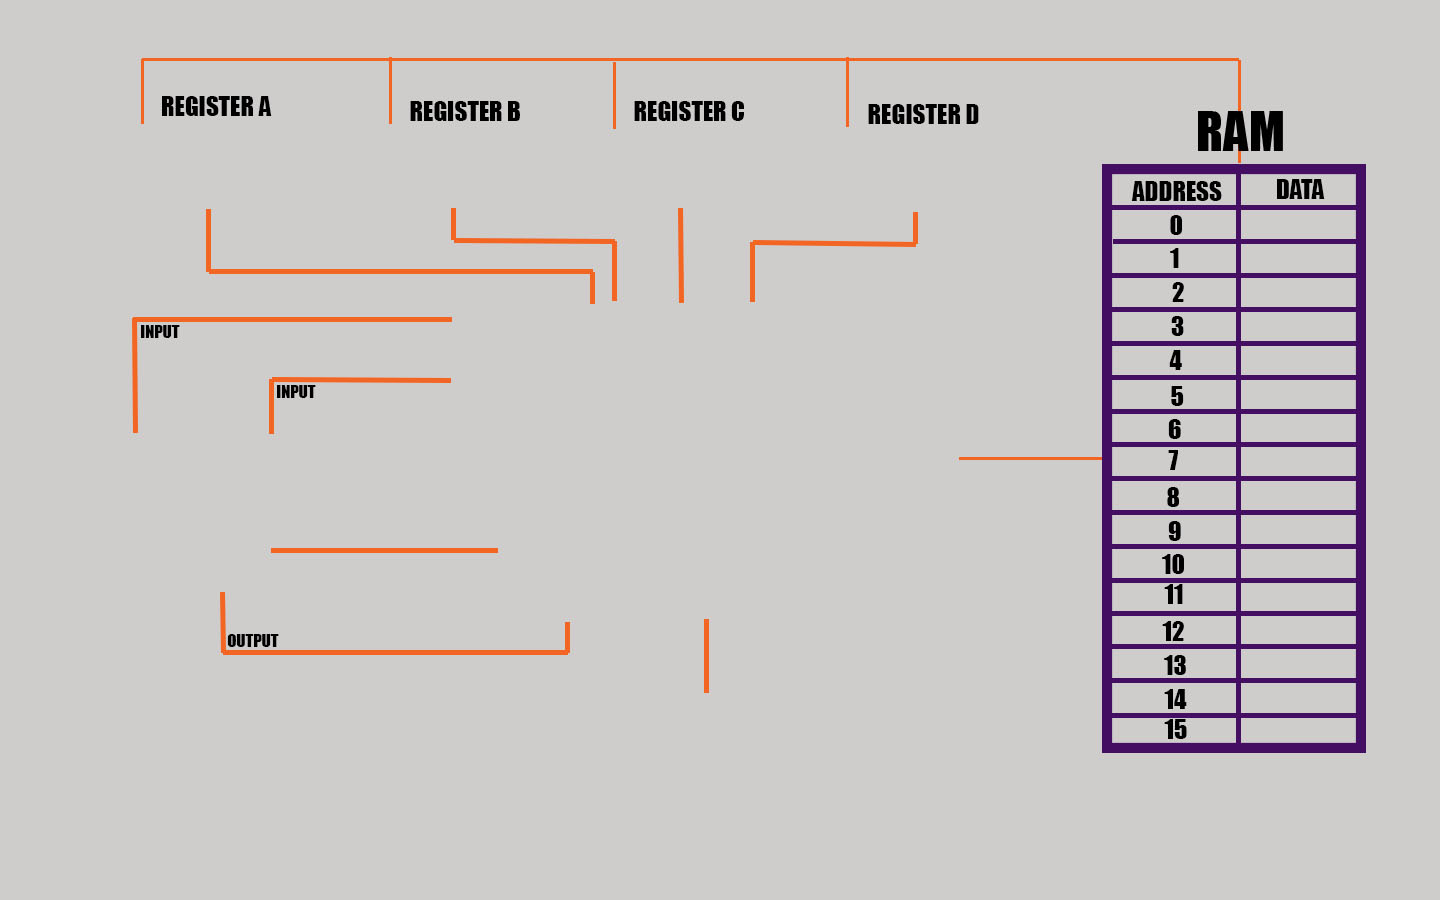
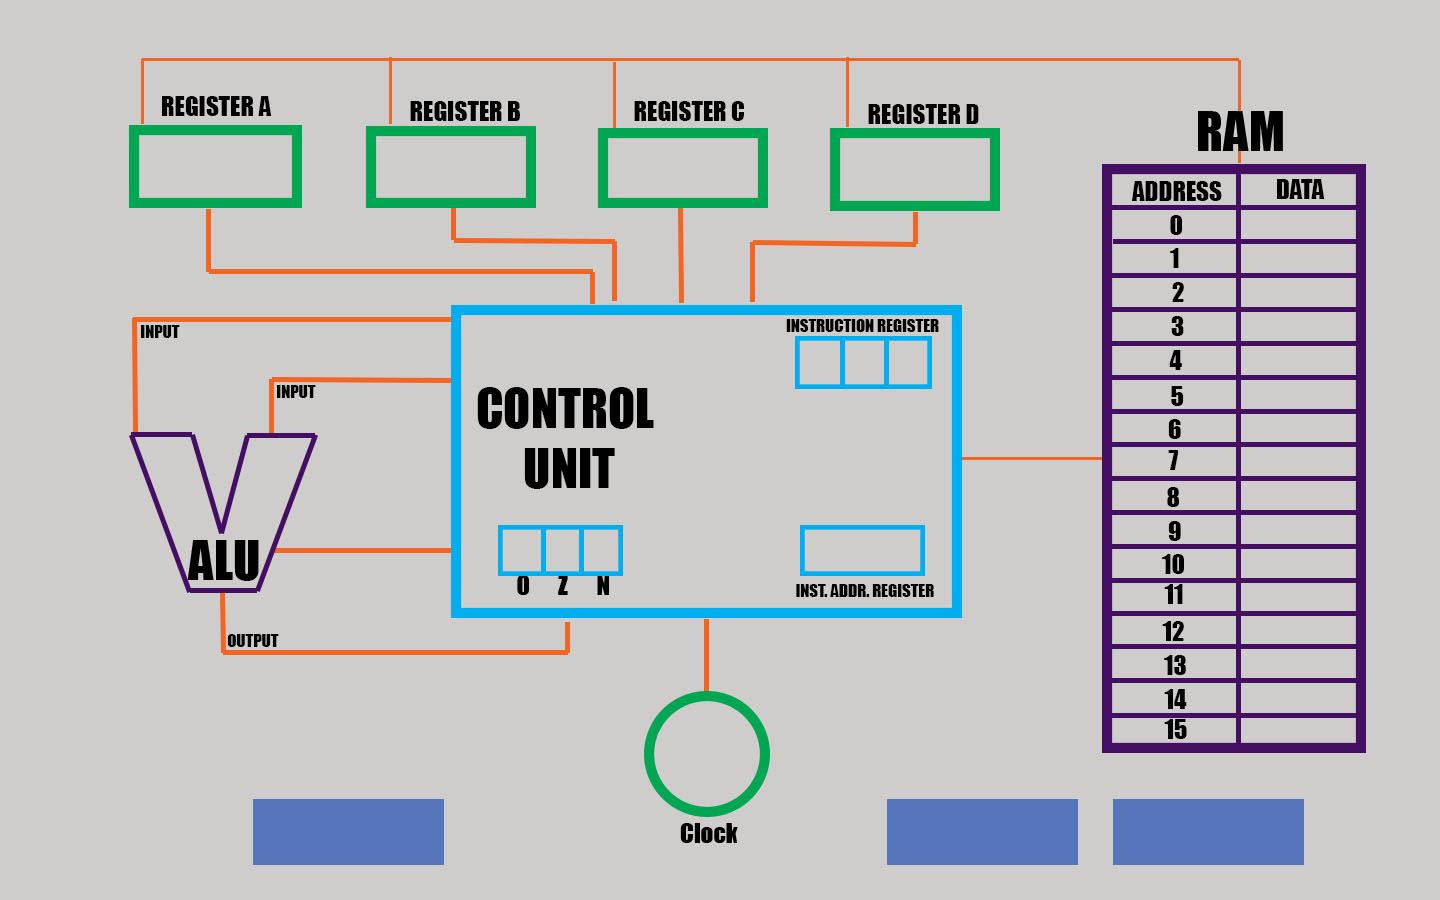
changed background
modified img

diff --git a/frontend_cpu/templates/index.html b/frontend_cpu/templates/index.html
@@ -2,14 +2,28 @@
 <html>
 <head>
 <style>
+#background {
+background-image: url('static/background.jpg');
+background-repeat: no-repeat;
+width: 1440px;
+height: 900px;
+}
+#Register{
+width: 173px;
+height: 83px;
+}
+
 </style>
 </head>
 
 <body>
-	<div >
-		
-	<img src="{{url_for('static', filename='background.jpg')}}">
-</div>
+	<div id='background'>
+		<div id='Register' style="position: absolute; top:133px; left:125px"> </div>
+		<div id='Register' style="position: absolute; top:133px; left:365px"> </div>
+		<div id='Register' style="position: absolute; top:133px; left:600px"> </div>
+		<div id='Register' style="position: absolute; top:135px; left:840px"> </div>
+
+	</div>
 </body>
 
 </html>
